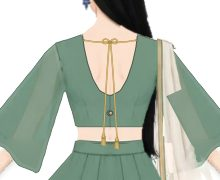
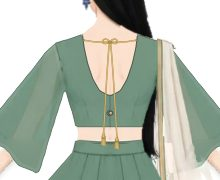
Drape the one-shoulder dupatta over the upper arm
The dupatta now falls over the shoulder and the outside of the upper arm
as sheer cloth with folds along the arm (the sleeve shows through), and
the forearm comes out from under it at the elbow instead of the whole arm
sitting in front of the cloth. The painted fall's straight top edge is
blended into the new cloth. Option thumbnails and Explore renders are
re-rendered.

Claude-Session: https://claude.ai/code/session_01TYPUusnuhtBJ7Z9aDFcSGW

Changed region(s): [[0.7364, 0.5, 0.8727, 0.8056]]

diff --git a/src/components/MannequinStage.tsx b/src/components/MannequinStage.tsx
@@ -1969,7 +1969,8 @@ interface BlouseDetailsResult {
                     ? svgPath(
                         mir(
                           (() => {
-                            const s0 = 30, s1 = ARM_UPPER_LEN + ARM_FORE_LEN + 60, n = 24;
+                            // the dupatta drapes over the upper arm; the forearm comes out from under it at the elbow
+                            const s0 = ARM_UPPER_LEN + 6, s1 = ARM_UPPER_LEN + ARM_FORE_LEN + 60, n = 24;
                             const side = (sd: 1 | -1) =>
                               Array.from({ length: n + 1 }, (_, i) => {
                                 const a = armAt(s0 + ((s1 - s0) * i) / n);

diff --git a/scripts/painted-assets/fix_dupatta_shoulder.py b/scripts/painted-assets/fix_dupatta_shoulder.py
@@ -1,4 +1,4 @@
-# Repairs the one-shoulder dupatta over the shoulder (run after build.py).
+# Repairs the one-shoulder dupatta over the shoulder and drapes it over the upper arm (run after build.py).
 # In the reference painting the sleeve hid part of the dupatta where it crosses the shoulder, so the
 # extracted dupatta has a hole there; with any other sleeve the hole showed as a white notch. This
 # fills the hole with the dupatta's own cream and drops the stray specks and the white fringe left
@@ -45,7 +45,8 @@ def largest_piece(mask):
 PATH = 'public/assets/painted/dupatta-one-shoulder.png'
 X0, Y0, W, H = 261.0, 145.0, 228.7, 598.0  # placement in stage units (geometry.ts PAINTED.dupattaOneShoulder)
 # region over the shoulder that the cloth should cover, in stage units
-SHOULDER = [(283, 157), (293, 160), (299, 164), (304, 171), (307, 180), (308, 190), (305, 199), (300, 207), (297, 214), (296, 240), (295, 285), (289, 300), (284, 250), (282, 200)]
+# over the shoulder and down the outside of the upper arm to the elbow, then falling into the drape
+SHOULDER = [(283, 157), (293, 160), (299, 164), (305, 172), (309, 182), (319, 211), (332, 238), (345, 268), (347, 284), (342, 302), (334, 305), (300, 250), (283, 200)]
 
 im = Image.open(PATH).convert('RGBA')
 a = np.asarray(im).astype(float)
@@ -91,13 +92,23 @@ CREAM = np.array([214.0, 206.0, 190.0])
 yy, xx = np.mgrid[0:h, 0:w]
 ys = Y0 + yy / sy
 xs = X0 + xx / sx
-# soft folds running down from the shoulder, as in the painted cloth
-fold = np.exp(-(((xs - 0.25 * (ys - 160)) - 296) / 3.2) ** 2) + 0.7 * np.exp(-(((xs - 0.12 * (ys - 160)) - 302) / 2.6) ** 2)
-light = 1.0 + 0.03 * np.clip((200 - ys) / 50, -1, 1) - 0.05 * np.clip((300 - xs) / 18, 0, 1) - 0.06 * fold
+# soft folds running along the arm from the shoulder, as the cloth hangs over it
+ax, ay = 0.42, 0.91  # arm direction
+across = (xs - 294) * ay - (ys - 190) * ax
+fold = np.exp(-((across - 6) / 3.0) ** 2) + 0.8 * np.exp(-((across - 18) / 3.4) ** 2) + 0.6 * np.exp(-((across - 30) / 3.0) ** 2)
+light = 1.0 + 0.03 * np.clip((200 - ys) / 50, -1, 1) - 0.05 * np.clip((300 - xs) / 18, 0, 1) - 0.07 * fold
 fill = CREAM[None, None, :] * light[..., None]
 # soften the new edge so it blends with the painted cloth
 edge = blur(blur(region.astype(float), 2), 2)
 a[..., :3] = np.where(hole[..., None], fill, a[..., :3])
-a[..., 3] = np.where(hole, np.maximum(a[..., 3], 205 * np.clip(edge * 1.4, 0, 1)), a[..., 3])
+a[..., 3] = np.where(hole, np.maximum(a[..., 3], 190 * np.clip(edge * 1.4, 0, 1)), a[..., 3])
+# the painted fall starts with a straight top edge (the sleeve hid what was above it); blend it into
+# the sheer cloth over the arm so the cloth gets gradually denser instead of changing at a line
+band = region & ~hole & (ys > 205) & (ys < 292)
+t = np.clip((ys - 248) / 40, 0, 1)
+mix = 190 + (a[..., 3] - 190) * t
+a[..., 3] = np.where(band, np.minimum(a[..., 3], mix), a[..., 3])
+a[..., :3] = np.where(band[..., None], a[..., :3] * t[..., None] + fill * (1 - t[..., None]), a[..., :3])
+
 Image.fromarray(np.clip(a, 0, 255).astype(np.uint8)).save(PATH)
 print('filled', int(hole.sum()), 'px')
